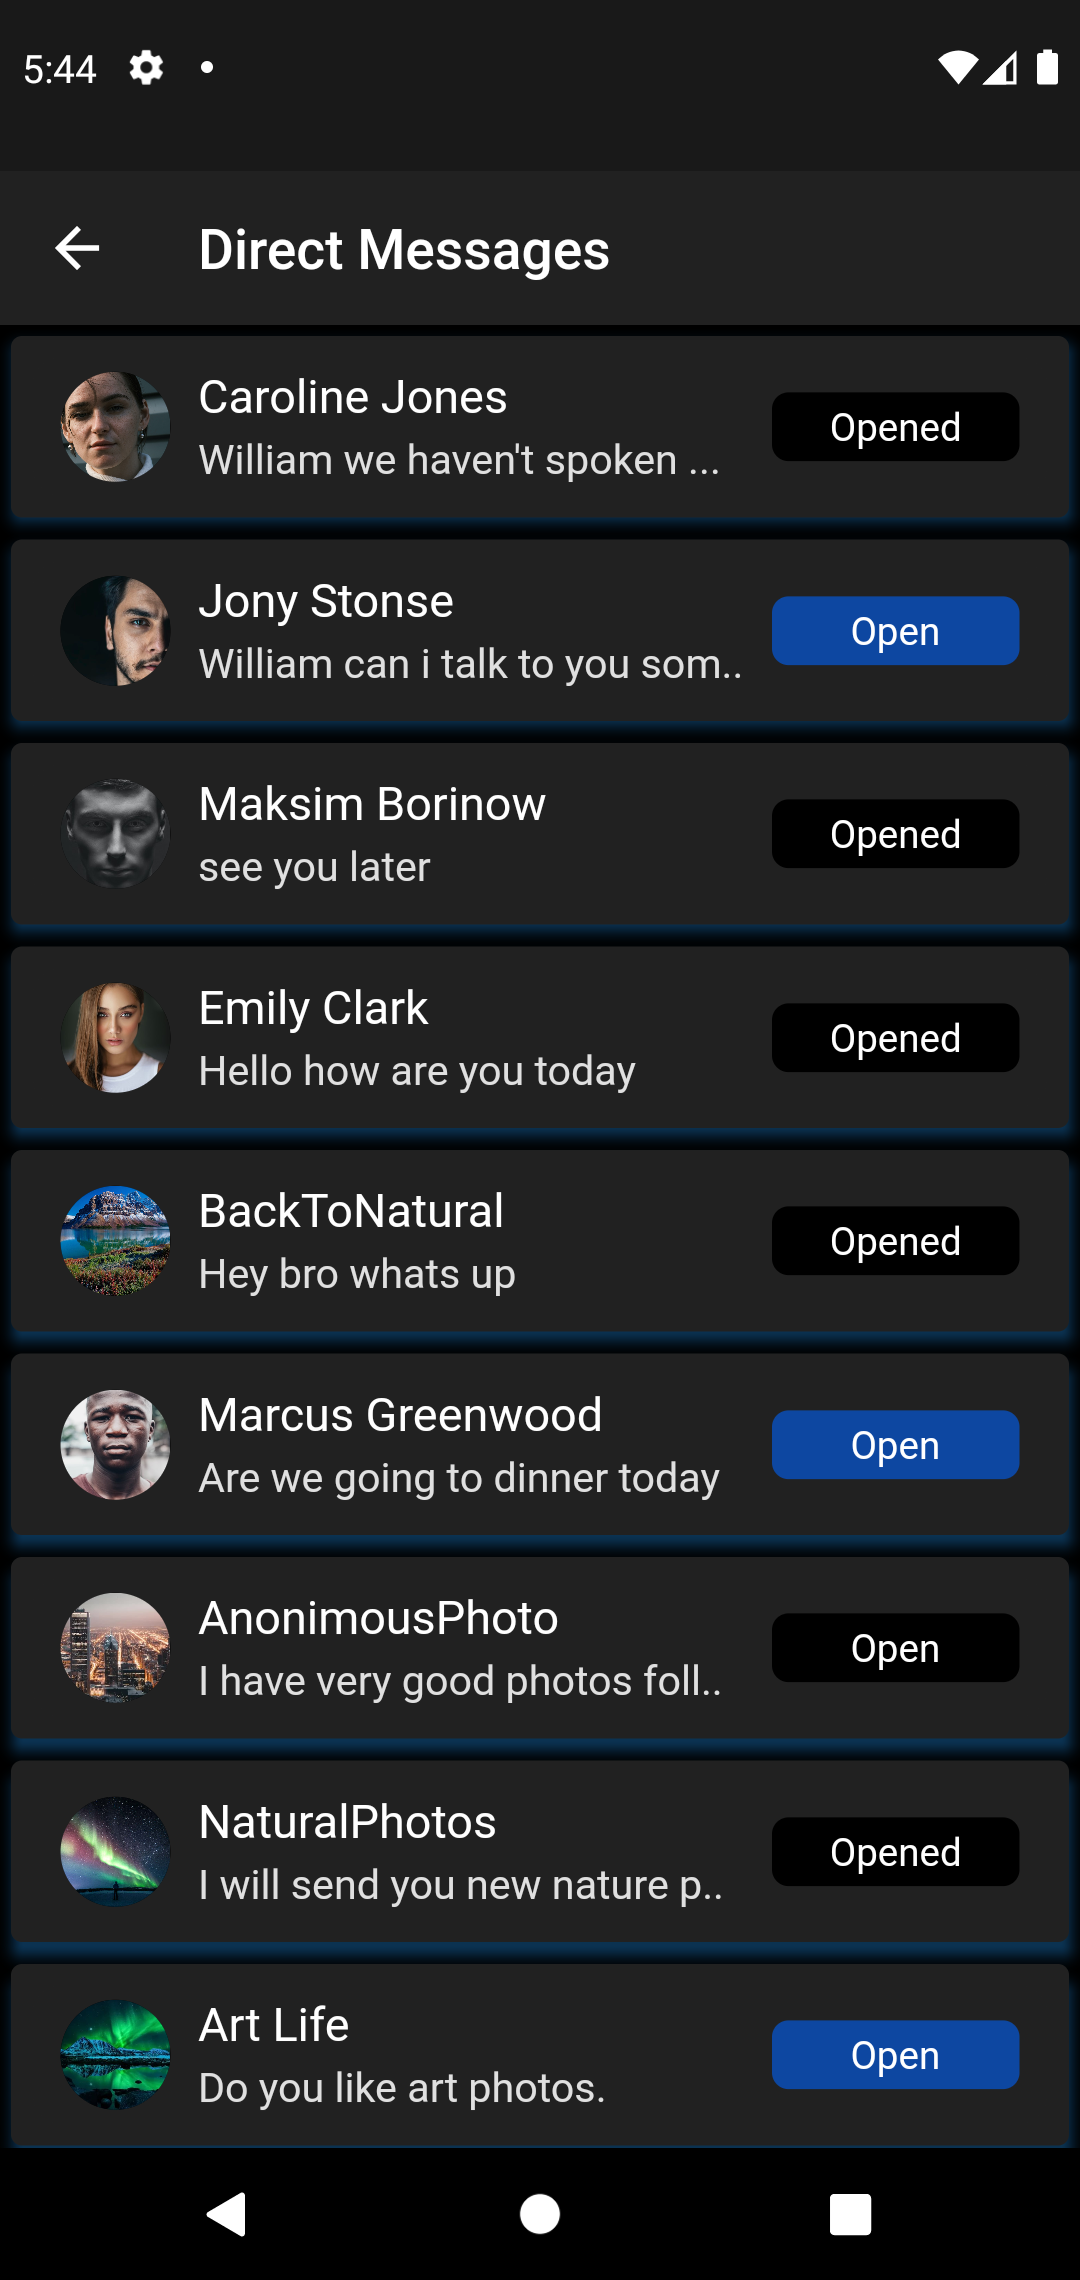
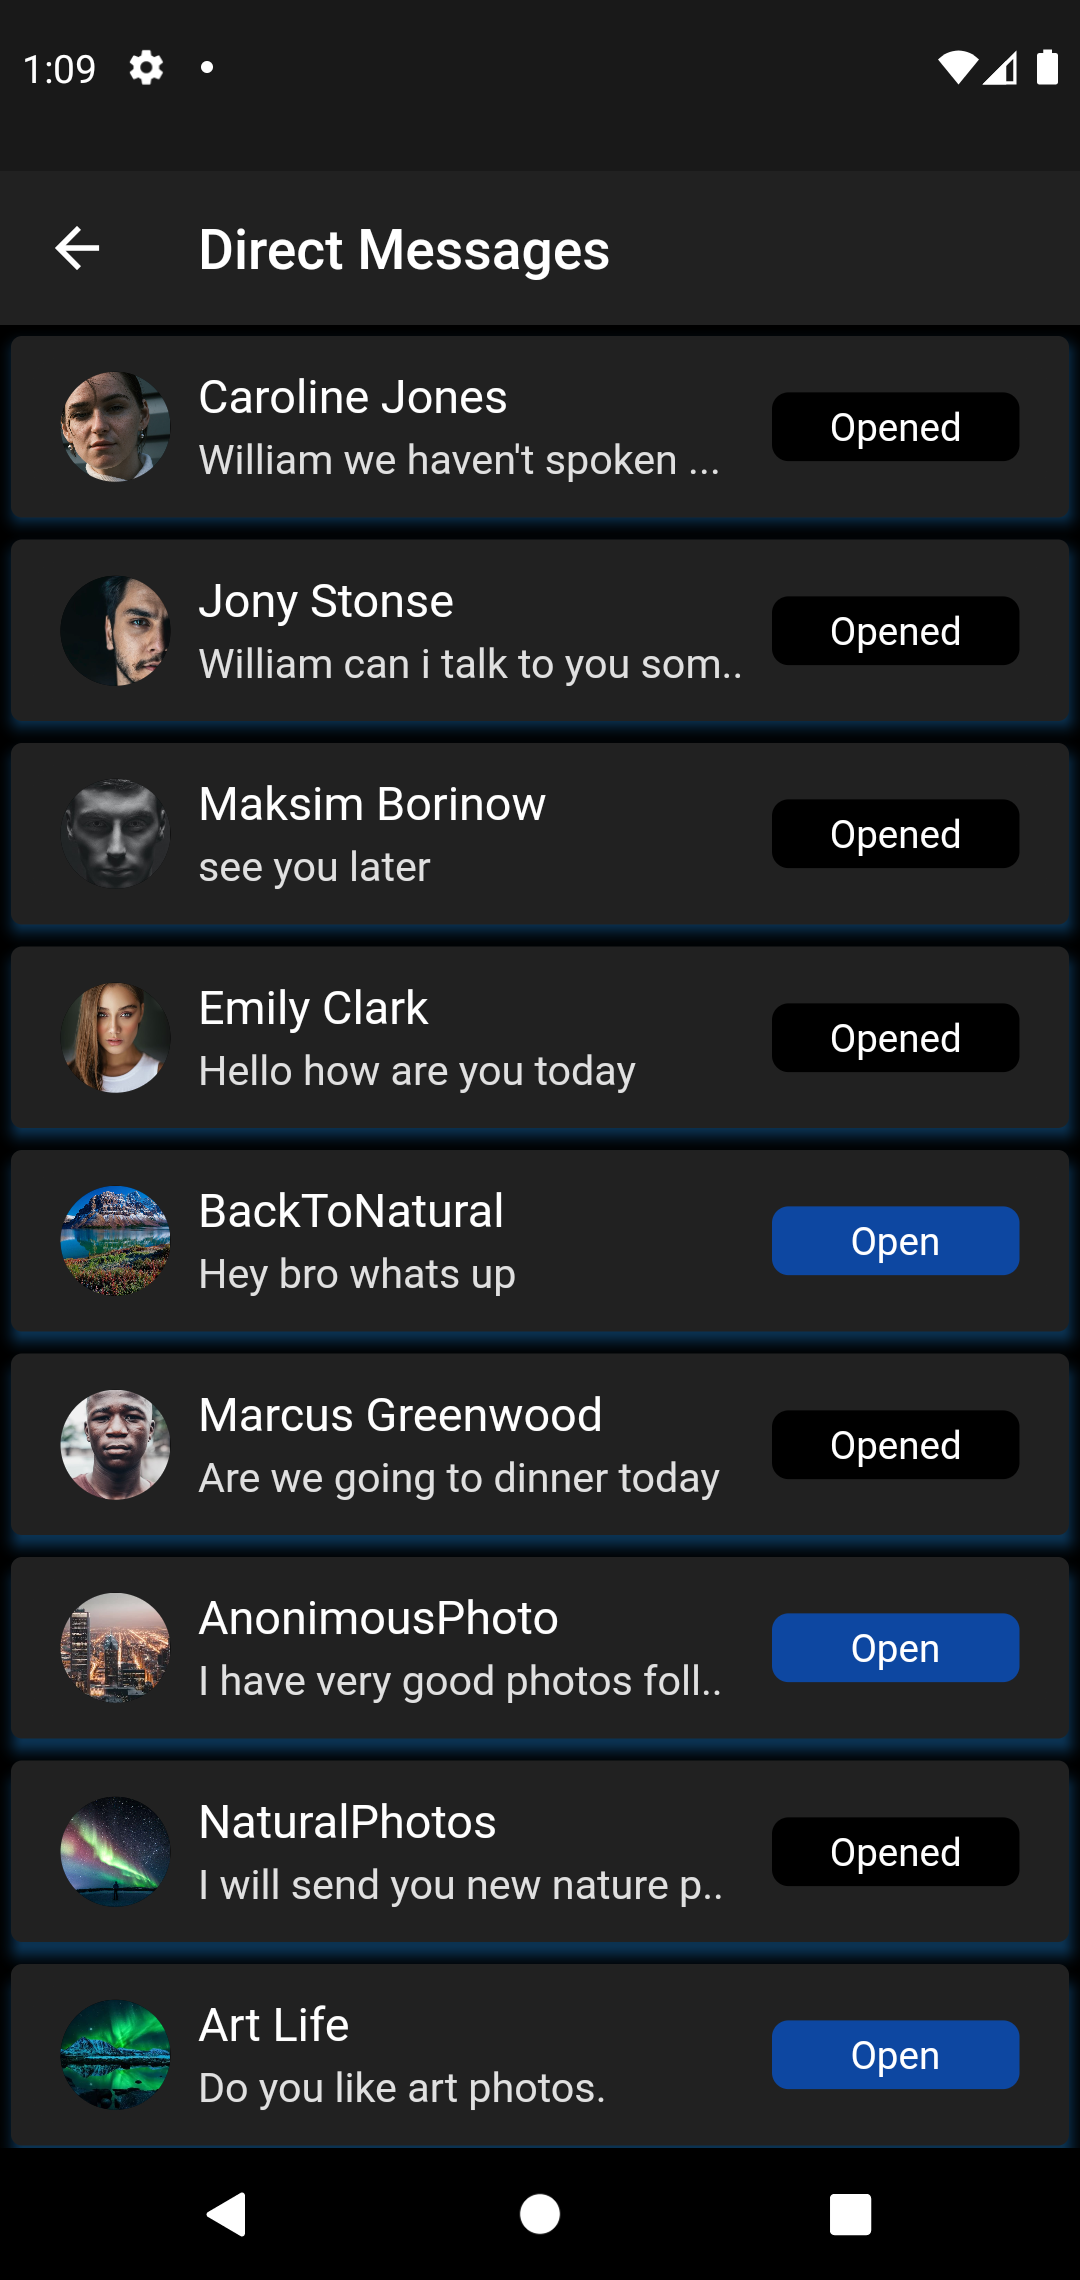
push

diff --git a/lib/view/dm/direct_message.dart b/lib/view/dm/direct_message.dart
@@ -492,7 +492,7 @@ class _DirectMessageState extends State<DirectMessage> {
                             setState(() {
                               value5 % 2 == 0
                                   ? color5 = Colors.blue.shade900
-                                  : color3 = Colors.black;
+                                  : color5 = Colors.black;
                               value5 % 2 == 0
                                   ? open5 = "Open"
                                   : open5 = "Opened";
